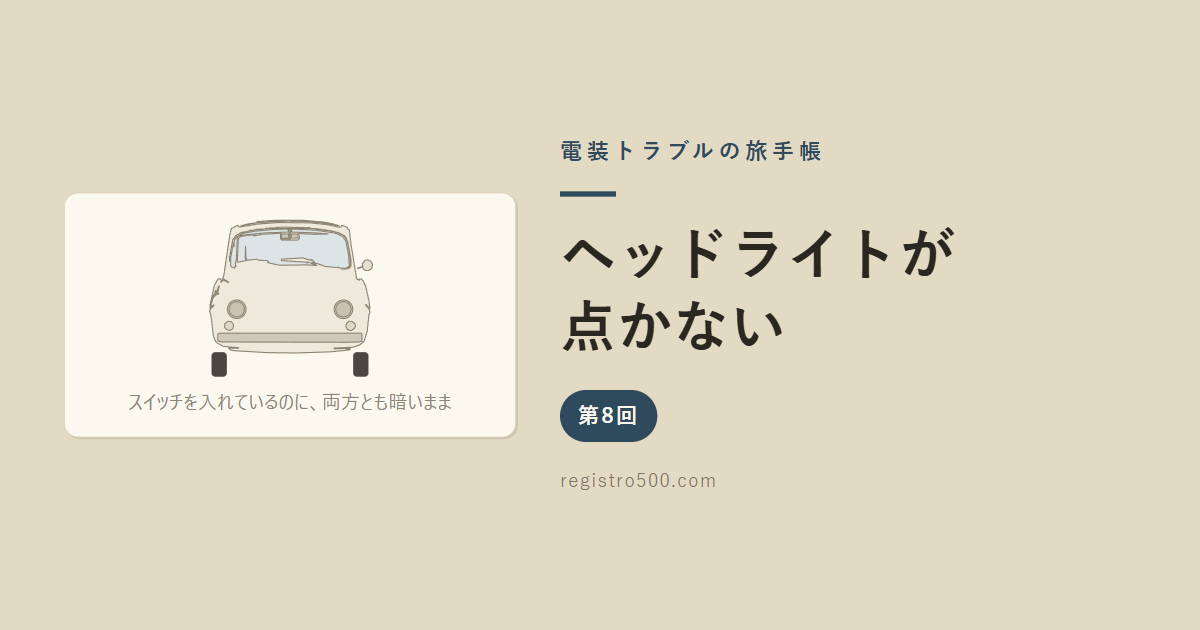
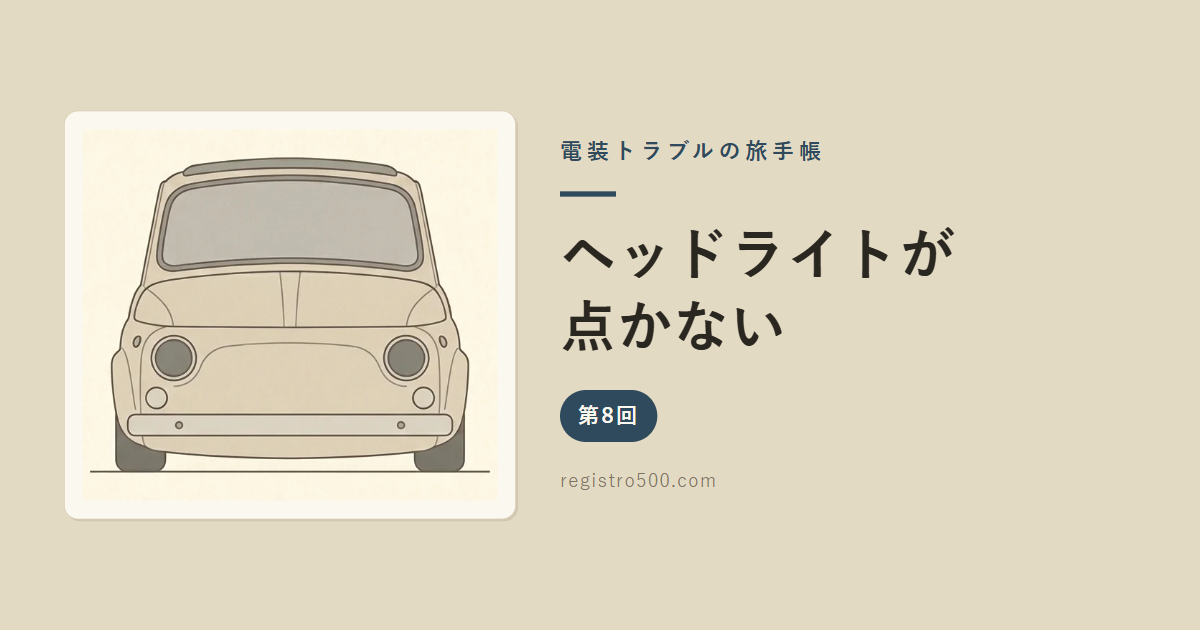
fix(og): OGカード生成を画像アイキャッチに対応＋第8回のカードを焼き直し
build_og_cards.py が「最初の svg」を全文から探していたため、アイキャッチが <img> の回
（第8回 headlight）では2つめの .scene にある「しくみ」の図を黙って拾っていた。
最初の .scene の中だけを見るようにし、svg でも img でも受けられるようにした。

- og/journey-headlight.png を新しいアイキャッチで焼き直し（--only 付きで1枚だけ）
- CSS に .pic img を追加

Claude-Session: https://claude.ai/code/session_0181AzGg6Pti1yzMUS24b3Za

Changed region(s): [[0.0308, 0.1508, 0.4317, 0.8444]]

diff --git a/wiring-simulator/build_og_cards.py b/wiring-simulator/build_og_cards.py
@@ -44,12 +44,28 @@ METER_ZOOM = '28 116 168 106'
 
 
 def scene_svg(slug, zoom=True):
-    """記事の最初の `.scene` の中の <svg>…</svg> を取り出す。"""
+    """記事の最初の `.scene` の中身（<svg> か <img>）を取り出す。
+
+    ⚠⚠【2026-08-29 追加】アイキャッチが <img>（生成画像）の回がある＝第8回 headlight。
+    以前は「最初の <svg>」を全文から探していたので、img の回では【2つめの .scene に入って
+    いる「しくみ」の図】を拾ってしまい、記事と違う絵のカードが黙ってできていた。
+    最初の .scene の【中だけ】を見るようにして、svg でも img でも受けられるようにする。
+    """
     src = read(os.path.join(ROOT, 'wiring-journey-%s.html' % slug))
-    m = re.search(r'<div class="scene">\s*(<svg.*?</svg>)', src, flags=re.S)
+    i = src.find('<div class="scene">')
+    if i < 0:
+        raise SystemExit('%s にアイキャッチ（.scene）がありません' % slug)
+    j = src.find('<div class="scene">', i + 1)          # 次の .scene の手前で切る
+    chunk = src[i:j] if j > 0 else src[i:]
+    mi = re.search(r'<img\s[^>]*>', chunk)
+    m = re.search(r'<svg.*?</svg>', chunk, flags=re.S)
+    if mi and (not m or mi.start() < m.start()):
+        # 画像のアイキャッチ＝寸法指定を落として枠いっぱいに載せる（CSS の .pic img に任せる）
+        img = re.sub(r'\s(width|height|style)="[^"]*"', '', mi.group(0))
+        return img
     if not m:
-        raise SystemExit('%s のアイキャッチ（.scene の svg）が見つかりません' % slug)
-    svg = m.group(1)
+        raise SystemExit('%s のアイキャッチ（.scene の svg / img）が見つかりません' % slug)
+    svg = m.group(0)
     # 版下では枠に合わせる＝width/height 属性を外して CSS 側に任せる
     # ⚠⚠【2026-08-28 修正】以前は count=2 で先頭から2つ消していた＝<svg> 側に width しか
     #   無い絵では、2つめが【最初の <rect> の width】に当たって図形がまるごと消えていた
@@ -94,6 +110,7 @@ body{background:#888}
      border-radius:14px;display:flex;align-items:center;justify-content:center;
      box-shadow:2px 2px 0 rgba(90,78,55,.13);padding:18px}
 .pic svg{width:100%%;height:auto;max-height:502px}
+.pic img{width:100%%;height:auto;max-height:502px;object-fit:contain}
 .txt{flex:1;min-width:0}
 .brand{font-size:22px;letter-spacing:.22em;font-weight:800;color:#2f4a5c}
 .rule{width:56px;height:5px;background:#2f4a5c;margin:20px 0 24px}
